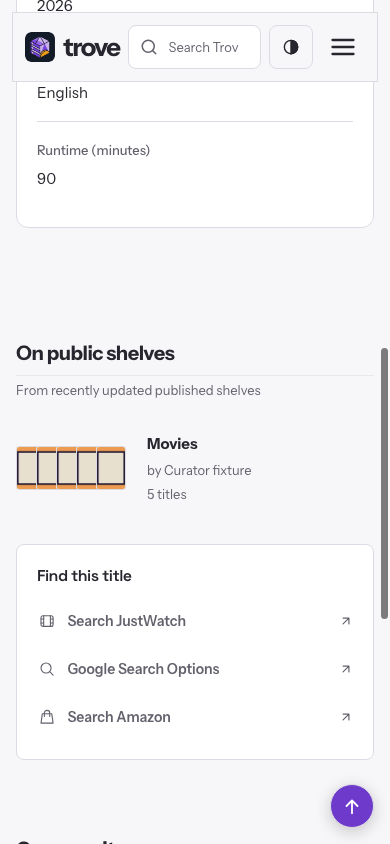
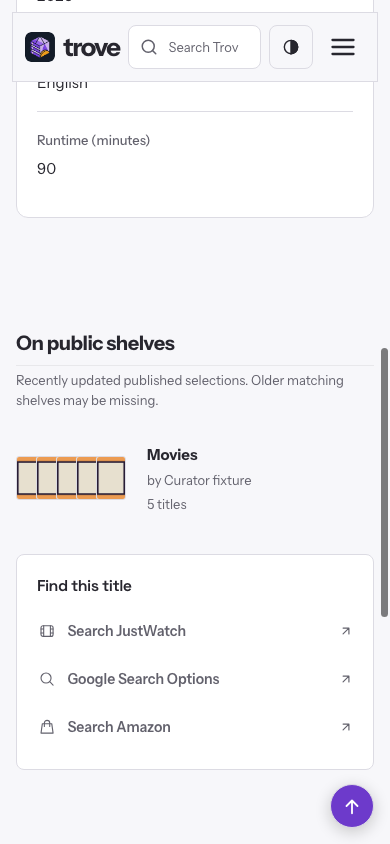
Preserve fragment restoration and surface current published named shelves

diff --git a/app/javascript/controllers/metadata_tabs_controller.js b/app/javascript/controllers/metadata_tabs_controller.js
@@ -1,5 +1,8 @@
 import { Controller } from "@hotwired/stimulus"
 
+// Transient presentation only; bound memory across Turbo visits without storing catalog content or tracking data.
+const presentations = new Map()
+
 // Only this metadata island is tabbed. The page's document navigation stays intact.
 export default class extends Controller {
   static targets = ["list", "tab", "panel", "expand"]
@@ -8,33 +11,54 @@ export default class extends Controller {
     // Keep native find-in-page available. Unsupported browsers get the full document.
     if (this.tabTargets.length < 2 || !("onbeforematch" in document.documentElement)) return
     this.enhanced = true
-    this.expanded = false
     this.expandTarget.hidden = false
-    this.onHash = () => {
-      const index = this.fragmentIndex()
-      if (!this.expanded) this.select(index >= 0 ? index : (this.selectedIndex || 0))
-    }
+    this.onHash = () => this.applyLocation()
+    window.addEventListener("hashchange", this.onHash)
     this.onCache = () => {
-      this.restore()
-      // Turbo can cache on a same-document fragment visit without disconnecting.
-      // Its cloned snapshot is expanded; restore the still-live island afterwards.
-      this.cacheFrame = requestAnimationFrame(() => {
-        if (!this.element.isConnected) return
-        this.expandTarget.hidden = false
-        this.expandTarget.textContent = this.expanded ? "Show tabs" : "Show all"
-        if (!this.expanded) this.select(this.selectedIndex || 0)
+      delete this.element.dataset.metadataTabsConnected
+      this.readyFrame = requestAnimationFrame(() => {
+        if (this.element.isConnected) this.element.dataset.metadataTabsConnected = "true"
       })
     }
-    window.addEventListener("hashchange", this.onHash)
     document.addEventListener("turbo:before-cache", this.onCache)
-    this.select(Math.max(0, this.fragmentIndex()))
+    // Finish a fresh island before resolving an existing downstream fragment.
+    // A lazily loaded controller can arrive after the browser's first anchor scroll.
+    const saved = history.state?.troveMetadata?.path === location.pathname || presentations.has(location.pathname)
+    const target = document.getElementById(location.hash.slice(1))
+    const height = this.element.getBoundingClientRect().height
+    this.applyLocation()
+    if (!saved && target && height !== this.element.getBoundingClientRect().height &&
+        (this.element.contains(target) || (this.element.compareDocumentPosition(target) & Node.DOCUMENT_POSITION_FOLLOWING))) {
+      target.scrollIntoView({ block: "start", behavior: "instant" })
+    }
+    this.element.dataset.metadataTabsConnected = "true"
+  }
+
+  applyLocation() {
+    const saved = history.state?.troveMetadata
+    const state = saved?.path === location.pathname ? saved : presentations.get(location.pathname)
+    this.expanded = state ? state.expanded : this.element.dataset.metadataExpanded === "true"
+    this.element.dataset.metadataExpanded = String(this.expanded)
+    this.expandTarget.textContent = this.expanded ? "Show tabs" : "Show all"
+    const index = this.fragmentIndex()
+    if (this.expanded) this.reveal()
+    else this.select(index >= 0 ? index : (state?.index ?? Number(this.element.dataset.metadataSelected || 0)))
+  }
+
+  remember() {
+    // Preserve Turbo's restoration identifier rather than replacing history state.
+    const state = { path: location.pathname, expanded: this.expanded, index: this.selectedIndex || 0 }
+    presentations.delete(location.pathname)
+    presentations.set(location.pathname, state)
+    if (presentations.size > 20) presentations.delete(presentations.keys().next().value)
+    history.replaceState({ ...history.state, troveMetadata: state }, "", location.href)
   }
 
   disconnect() {
     window.removeEventListener("hashchange", this.onHash)
     document.removeEventListener("turbo:before-cache", this.onCache)
-    if (this.cacheFrame) cancelAnimationFrame(this.cacheFrame)
-    this.restore()
+    if (this.readyFrame) cancelAnimationFrame(this.readyFrame)
+    delete this.element.dataset.metadataTabsConnected
   }
 
   fragmentIndex() {
@@ -47,8 +71,8 @@ export default class extends Controller {
     if (!this.enhanced || this.expanded || event.metaKey || event.ctrlKey || event.shiftKey || event.altKey) return
     event.preventDefault()
     const index = this.tabTargets.indexOf(event.currentTarget)
+    if (location.hash !== event.currentTarget.hash) history.pushState(history.state, "", event.currentTarget.hash)
     this.select(index)
-    if (location.hash !== event.currentTarget.hash) history.pushState(null, "", event.currentTarget.hash)
   }
 
   navigate(event) {
@@ -60,12 +84,14 @@ export default class extends Controller {
     event.preventDefault()
     this.tabTargets[index].focus({ preventScroll: true })
     this.tabTargets[index].scrollIntoView({ block: "nearest", inline: "nearest" })
+    history.replaceState(history.state, "", this.tabTargets[index].hash)
     this.select(index)
-    history.replaceState(null, "", this.tabTargets[index].hash)
   }
 
   select(index) {
+    if (!Number.isInteger(index) || index < 0 || index >= this.panelTargets.length) index = 0
     this.selectedIndex = index
+    this.element.dataset.metadataSelected = String(index)
     this.expandTarget.hidden = false
     this.listTarget.setAttribute("role", "tablist")
     this.tabTargets.forEach((tab, i) => {
@@ -82,6 +108,7 @@ export default class extends Controller {
       else panel.setAttribute("hidden", "until-found")
     })
     this.element.dataset.tabbed = "true"
+    this.remember()
   }
 
   found(event) {
@@ -91,9 +118,11 @@ export default class extends Controller {
 
   expand() {
     this.expanded = !this.expanded
+    this.element.dataset.metadataExpanded = String(this.expanded)
     this.expandTarget.textContent = this.expanded ? "Show tabs" : "Show all"
     if (this.expanded) this.reveal()
     else this.select(Math.max(0, this.fragmentIndex()))
+    this.remember()
   }
 
   reveal() {
@@ -106,12 +135,5 @@ export default class extends Controller {
       for (const name of ["hidden", "role", "tabindex"]) panel.removeAttribute(name)
       panel.setAttribute("aria-labelledby", `${panel.id}-heading`)
     })
-  }
-
-  restore() {
-    if (!this.enhanced) return
-    this.reveal()
-    this.expandTarget.hidden = true
-    this.expandTarget.textContent = "Show all"
   }
 }

diff --git a/spec/system/media_metadata_tabs_system_spec.rb b/spec/system/media_metadata_tabs_system_spec.rb
@@ -29,8 +29,10 @@ RSpec.describe 'Metadata tabs', type: :system do
     find('#metadata-taxonomy-tab').click
     expect(page).to have_text('Drama')
     page.go_back
+    expect(page).to have_css('#title-details[data-metadata-tabs-connected="true"]')
     expect(page).to have_css('#metadata-creators-tab[aria-selected="true"]')
     page.go_forward
+    expect(page).to have_css('#title-details[data-metadata-tabs-connected="true"]')
     expect(page).to have_css('#metadata-taxonomy-tab[aria-selected="true"]')
     page.execute_script("document.querySelector('#metadata-cast').dispatchEvent(new Event('beforematch'))")
     expect(page).to have_css('#metadata-cast-tab[aria-selected="true"]')
@@ -41,6 +43,37 @@ RSpec.describe 'Metadata tabs', type: :system do
     expect(page).to have_css('#title-details .media-metadata-panel:not([hidden])', count: 4)
     click_button 'Show tabs'
     expect(page).to have_css('[role="tabpanel"]', count: 1)
+  end
+
+  it 'aligns a direct document fragment after enhancing long metadata and after reload' do
+    visit movie_path(movie, anchor: 'community')
+    expect(page).to have_css('#metadata-details-tab[aria-selected="true"]')
+    expect(page.evaluate_script("document.querySelector('#community').getBoundingClientRect().top")).to be >= 90
+    page.refresh
+    expect(page).to have_css('#metadata-details-tab[aria-selected="true"]')
+    expect(page.evaluate_script("document.querySelector('#community').getBoundingClientRect().top")).to be >= 90
+  end
+
+  it 'keeps cached metadata layout stable and restores the expanded choice through Turbo back' do
+    visit movie_path(movie, anchor: 'metadata-creators')
+    expect(page).to have_css('#metadata-creators-tab[aria-selected="true"]')
+    geometry = page.evaluate_script(<<~JS)
+      (() => {
+        const island = document.querySelector('#title-details');
+        const before = island.getBoundingClientRect().height;
+        document.dispatchEvent(new Event('turbo:before-cache'));
+        return { before, after: island.getBoundingClientRect().height };
+      })()
+    JS
+    expect(geometry['after']).to eq(geometry['before'])
+    click_button 'Show all'
+    find('.media-back-link').click
+    expect(page).to have_current_path(movies_path)
+    page.go_back
+    expect(page).to have_button('Show tabs')
+    expect(page).to have_css('#title-details .media-metadata-panel:not([hidden])', count: 4)
+    click_button 'Show tabs'
+    expect(page).to have_css('#metadata-creators-tab[aria-selected="true"]')
   end
 
   it 'reflows long metadata in light and dark themes on desktop, mobile and 200 percent equivalent width' do
@@ -106,6 +139,29 @@ RSpec.describe 'Metadata tabs', type: :system do
       shelf.send_keys(:enter)
       expect(page).to have_current_path(shelf_path(owner.username, category: 'Movie'))
     end
+  end
+
+  it 'opens an explicitly published named shelf and removes stale previews from discovery' do
+    owner = User.create!(name: 'Named curator fixture', username: 'named_curator', email: 'named@example.com',
+                         password: 'password123', confirmed_at: Time.current)
+    collection = owner.shelf_collections.create!(title: 'Named shelf fixture',
+                                                 picks: [{ type: 'Movie', id: movie.id }])
+    category = "collection:#{collection.slug}"
+    signature = ApplicationController.helpers.shelf_preview_signature(owner, category)
+    owner.shelf_previews.attach(io: File.open(Rails.root.join('spec/fixtures/files/comic-portrait.png')),
+                                filename: 'collection-preview.png', content_type: 'image/png',
+                                metadata: { category: category, signature: signature })
+    resize_browser_viewport(390, 844)
+    visit movie_path(movie)
+    page.execute_script("document.querySelector('.media-public-shelves').scrollIntoView({block: 'center'})")
+    expect(page).to have_link('Named shelf fixture', href: shelf_path(owner.username, collection: collection.slug),
+                                                     exact_text: false)
+    capture_ui_screenshot('metadata-named-shelf-mobile')
+    find('.media-public-shelf').send_keys(:enter)
+    expect(page).to have_current_path(shelf_path(owner.username, collection: collection.slug))
+    collection.update!(description: 'Changed after publishing')
+    visit movie_path(movie)
+    expect(page).to have_no_css('.media-public-shelves')
   end
 
   it 'shows every metadata category without JavaScript' do

diff --git a/spec/requests/media_public_shelves_spec.rb b/spec/requests/media_public_shelves_spec.rb
@@ -20,7 +20,8 @@ RSpec.describe 'Title public shelf discovery', type: :request do
     publish_preview(owner)
     get movie_path(movie)
     visitor = Nokogiri::HTML(response.body).at_css('.media-public-shelves')
-    expect(visitor.text).to include('On public shelves', 'Published curator', '1 title')
+    expect(visitor.text).to include('On public shelves', 'Published curator', '1 title',
+                                    'Older matching shelves may be missing.')
     expect(visitor.text).not_to include('Private review sentinel', 'Direct link collection', 'Popular', 'rating')
     url = visitor.at_css('a')['href']
     get url
@@ -30,6 +31,31 @@ RSpec.describe 'Title public shelf discovery', type: :request do
     owner_view = Nokogiri::HTML(response.body).at_css('.media-public-shelves')
     expect(owner_view.to_html).to eq(visitor.to_html)
     owner.update!(confirmed_at: nil)
+    get movie_path(movie)
+    expect(Nokogiri::HTML(response.body).at_css('.media-public-shelves')).to be_nil
+  end
+
+  it 'discovers named selections only after publishing their current collection-specific preview' do
+    owner = User.create!(name: 'Collection curator', username: 'collection_curator', email: 'collection@example.com',
+                         password: 'password123', confirmed_at: Time.current)
+    movie = Movie.create!(title: 'Published collection movie')
+    collection = owner.shelf_collections.create!(title: 'Published collection fixture',
+                                                 picks: [{ type: 'Movie', id: movie.id }])
+    publish_preview(owner)
+    get movie_path(movie)
+    expect(Nokogiri::HTML(response.body).at_css('.media-public-shelves')).to be_nil
+    category = "collection:#{collection.slug}"
+    signature = ApplicationController.helpers.shelf_preview_signature(owner, category)
+    owner.shelf_previews.attach(io: File.open(Rails.root.join('spec/fixtures/files/comic-portrait.png')),
+                                filename: 'named-preview.png', content_type: 'image/png',
+                                metadata: { category: category, signature: signature })
+    get movie_path(movie)
+    section = Nokogiri::HTML(response.body).at_css('.media-public-shelves')
+    expect(section.text).to include('Published collection fixture', 'Collection curator')
+    expect(section.at_css('a')['href']).to eq(shelf_path(owner.username, collection: collection.slug))
+    get section.at_css('a')['href']
+    expect(response).to have_http_status(:ok)
+    collection.update!(title: 'Unpublished new title')
     get movie_path(movie)
     expect(Nokogiri::HTML(response.body).at_css('.media-public-shelves')).to be_nil
   end
@@ -51,7 +77,7 @@ RSpec.describe 'Title public shelf discovery', type: :request do
     expect(results.size).to eq(6)
     expect(results.flat_map { |row| row[:covers] }.size).to eq(6)
     expect(queries.size).to be <= 7
-    expect(queries.grep(/library_items|shelf_collections/)).to be_empty
+    expect(queries.grep(/library_items/)).to be_empty
     expect(queries.first).to include('LIMIT')
   end
 end

diff --git a/docs/design/media-detail.md b/docs/design/media-detail.md
@@ -8,12 +8,16 @@ Only the detailed metadata block becomes compact. Its heading is Details, follow
 
 Categories use available content: Details for technical/publication/provider facts, Cast only for screen actor credits, Crew for screen creators and Creators for other media, Genres or Features for taxonomy/game features. Empty categories disappear. One category needs no tabs. Release year remains a fact; no invented Releases category. Linked metadata entities and category links remain links. Provider synopsis duplicating the visible synopsis is removed; other descriptions remain. Header facts remain useful while duplicate detailed facts and structured credits merge by role.
 
-Without JavaScript all categories are visible with normal fragment links and headings. Enhancement adds ARIA tablist/tab/tabpanel, roving focus, automatic selection on arrow/Home/End, and a Show all escape. Category fragments select their panels on initial load and history changes without intercepting top-level navigation. Searchable hidden-until-found panels reveal through beforematch; browsers without that support retain the expanded document presentation. Expanded mode restores all content to the accessibility tree. Turbo cache cleanup restores unenhanced markup.
+Without JavaScript all categories are visible with normal fragment links and headings. Enhancement adds ARIA tablist/tab/tabpanel, roving focus, automatic selection on arrow/Home/End, and a Show all escape. Category fragments select their panels on initial load and history changes without intercepting top-level navigation. Searchable hidden-until-found panels reveal through beforematch; browsers without that support retain the expanded document presentation. Expanded mode restores all content to the accessibility tree. Turbo snapshots retain the selected/expanded island layout; reconnect restores its semantics without changing document height before native fragment scrolling. Fresh no-JavaScript responses remain fully expanded.
 
-Below community content, On public shelves uses compact cover-strip rows: bounded catalog covers left, shelf title, creator and stored pick count right. No engagement claims. Up to six rows; deterministic recency with a stable tie break. Omit when empty. Discovery consumes the shelf task's shared public contract and must respect its publication eligibility gates. No library, review or tracking data enters these rows.
+Below community content, On public shelves uses compact cover-strip rows: bounded catalog covers left, shelf title, creator and stored pick count right. No engagement claims. Up to six rows; deterministic recency with a stable tie break. Omit when empty. Discovery consumes the shelf task's shared public contract and respects its publication eligibility gates. Named collections require their own explicitly published current preview; an account-level or stale collection preview cannot qualify them. No library, review or tracking data enters these rows.
 
 Verification targets: desktop/mobile light/dark screenshots, 320px reflow (200% at 640px), long/missing metadata, all six catalog types, linked credits and tracks/episodes/issues, keyboard, fragment history, find-in-page, no JavaScript and owner/visitor privacy. Query cost must remain bounded with batched preview resolution.
 
-Implementation notes: reference MP4 was materialized locally through the current Library helper, then decoded as media with FFmpeg; 0/5-second frames confirm the independent metadata island and 10/15-second frames show compact cover-strip list rows. No attachment code was executed. The shelf service is shared with the separate shelves draft: original b0df5b69 is cherry-picked here as 491c4b75. Follow-up candidate bounding remains coordinated with its owner. This draft changes no review presentation blocks; the separate review draft owns those.
+Implementation notes: reference MP4 was materialized locally through the current Library helper, then decoded as media with FFmpeg; 0/5-second frames confirm the independent metadata island and 10/15-second frames show compact cover-strip list rows. No attachment code was executed. The shelf service is shared with the separate shelves draft: original shared commits b0df5b69 and 9beea6f3 are included; their local hashes change on rebase. Publication-safe named eligibility and bounded metadata loading are shared follow-ups 8579aafd and 69c2e690. This draft changes no review presentation blocks; the separate review draft owns those.
 
-Final discovery bound: shared follow-up 9beea6f3 (local 00e3cc14) limits typed JSON membership checks to the 500 most recently updated eligible published favorite shelves, returning six matches here (service maximum twelve). Up to five catalog covers per row are resolved in batches by media type. Older matches can be absent; the subtitle explicitly describes the recent published scope. Request tests constrain query count to seven or fewer for six same-type shelf rows and reject LibraryItem/ShelfCollection queries.
+Final discovery bound: typed JSON membership checks examine the 500 most recently updated publication candidates in total, returning six matches here (service maximum twelve). Up to five catalog covers per row resolve in batches by media type. Older matching shelves can be absent, so this is incomplete discovery; the UI explicitly says older matches may be missing. Favorite shelves retain the existing homepage publication gates. Named collections additionally require a collection-specific preview with the exact current signature, preventing a generic account preview or stale unpublished edit from exposing a collection through discovery. No LibraryItem or review data participates in membership or cards.
+
+History uses native fragment URLs while retaining Turbo restoration identifiers. Selected/expanded metadata presentation is retained in history and a bounded transient cache of twenty paths; it stores no catalog content or viewer tracking state. Caching never expands the live metadata island, preserving anchor geometry. Focused regressions keep the existing strict header/anchor assertions and cover direct URLs, reload, backward/forward navigation, Turbo back, searchable panels and expanded-state restoration.
+
+Measured lookup budget: five SQL queries for six same-type favorite rows; named publication checks use one distinct tuple query bounded by the matched candidate count, with no preview blob/history preload. Small cover previews request the existing 180px rendition and decode lazily.

diff --git a/docs/screenshots/media-detail/README.md b/docs/screenshots/media-detail/README.md
@@ -3,3 +3,5 @@
 Screenshots use isolated synthetic test fixtures, not production accounts or invented catalog information shipped to users. Screens show desktop dark mode, mobile light mode, 320px reflow, and the fully expanded no-JavaScript fallback. Public shelf rows use published test selections and catalog artwork only.
 
 The browser suite checks keyboard arrows/Home/End selection, history back/forward, direct category fragments, searchable beforematch reveal, Show all, unchanged top-level document anchors, visible synopsis, quick tracking, all six catalog types, track/issue/episode preservation and overflow. Native browser find-menu UI and assistive-technology speech output were not manually audited; searchable panel behavior and ARIA structure are covered in browser tests.
+
+The named-shelf mobile screenshot shows a collection with an explicitly published current preview. The browser test follows its actual anonymous public URL, edits the collection afterwards, and verifies that the stale preview no longer makes it discoverable. The discovery subtitle states the recent-window incompleteness.
